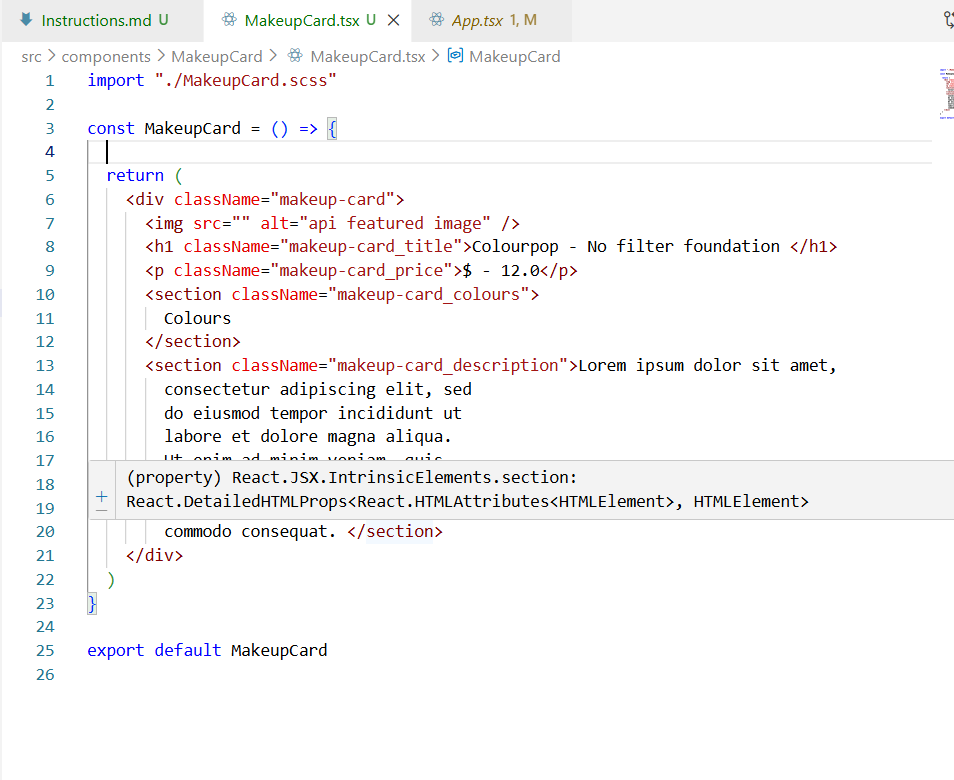
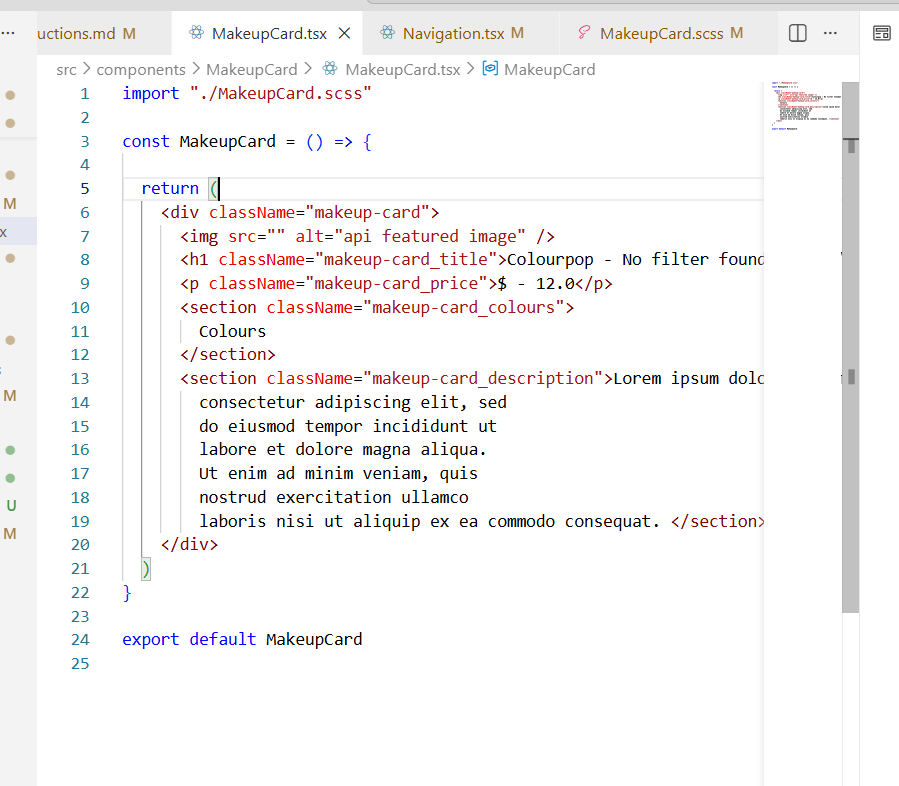
Mapped over data and for each makeup item made a card

Changed region(s): [[0.0, 0.0, 1.0, 0.8923], [0.8409, 0.0923, 1.0, 0.8], [0.0, 0.2154, 0.0623, 0.3385]]

diff --git a/src/App.tsx b/src/App.tsx
@@ -1,25 +1,33 @@
-
 import './App.css'
+
 import Aside from './container/Aside/Aside'
 import Dashboard from './container/Dashboard/Dashboard'
 import Navigation from './container/Navigation/Navigation'
+
 import { useEffect, useState } from 'react'
 
 const App = () => {
   
+  //fetch makeup data from makeup api
   const data = "http://makeup-api.herokuapp.com/api/v1/products.json?product_type=foundation"
+
+  //useState to store makeup data
+  const [makeupData, setMakeupData] = useState<object[]>([]);
+
+  //retrieve makeup data from api
   const getMakeup = async () => {
     const response = await fetch(data)
     const makeupData = await response.json()
-    const resultFiltered = Object.values(makeupData).filter((obj: any) => obj.name.includes("Foundation"));
-    console.log(resultFiltered)
+    const filteredMakeup = Object.values(makeupData).filter((makeupProduct: any) => makeupProduct.name.includes("Foundation")) as object[];
+    console.log(filteredMakeup)
+    setMakeupData(filteredMakeup)
   }
-  getMakeup() 
 
+  //useEffect 
   useEffect(() => {
     getMakeup()
   }, [])
-  
+
   return (
     <>
       <section> 
@@ -27,7 +35,7 @@ const App = () => {
 
         <div className="main">
           <Aside />
-          <Dashboard />
+          <Dashboard makeupData={makeupData} />
         </div>
 
       </section>

diff --git a/src/components/MakeupCard/MakeupCard.tsx b/src/components/MakeupCard/MakeupCard.tsx
@@ -1,22 +1,26 @@
 import "./MakeupCard.scss"
 
-const MakeupCard = () => {
+type MakeupCardProps = {
+  makeupData?: object[];
+  name: string;
+  key: number;
+  description: string;
+  price: string;
+  image_link: string;
+  currency: string;
+};
+
+const MakeupCard = ({ name, description, price, image_link, currency }: MakeupCardProps) => {
 
   return (
     <div className="makeup-card">
-      <img src="" alt="api featured image" />
-      <h1 className="makeup-card_title">Colourpop - No filter foundation </h1>
-      <p className="makeup-card_price">$ - 12.0</p>
+      <img className="makeup-card_image" src={image_link} alt="api featured image" />
+      <h1 className="makeup-card_title">{name}</h1>
+      <p className="makeup-card_price">{currency}{price}</p>
       <section className="makeup-card_colours">
         Colours
       </section>
-      <section className="makeup-card_description">Lorem ipsum dolor sit amet, 
-        consectetur adipiscing elit, sed 
-        do eiusmod tempor incididunt ut 
-        labore et dolore magna aliqua. 
-        Ut enim ad minim veniam, quis 
-        nostrud exercitation ullamco 
-        laboris nisi ut aliquip ex ea commodo consequat. </section>
+      <section className="makeup-card_description">{description}</section>
     </div>
   )
 }

diff --git a/src/components/MakeupCard/MakeupCard.scss b/src/components/MakeupCard/MakeupCard.scss
@@ -8,25 +8,30 @@
     height: 400px;
     font-family: Arial, Helvetica, sans-serif;
 
-    _title {
-        font-size: 1.5em;
-        margin-bottom: 8px;
-        color: #333;   
-    }
-    _description {
-        font-size: 1em;
-        color: #666;
-    }
-    _price {
+    .makeup-card_description {
+    font-size: 1em;
+    color: #666;
+}
+
+    .makeup-card_price {
         font-size: 1.2em;
         color: #000;
         font-weight: bold;
         margin-top: 12px;
     }
-    _image {
-        width: 100%;
-        height: auto;
+
+    .makeup-card_image {
+        max-width: 30px;
+        height: 30px;
         border-radius: 4px;
         margin-bottom: 12px;
     }
+    .makeup-card_title {
+        font-size: 1.5em;
+        margin-bottom: 8px;
+        color: green;
+    }
+
 }
+
+

diff --git a/src/components/MakeupCard/MakeupCard.css b/src/components/MakeupCard/MakeupCard.css
@@ -1,0 +1,31 @@
+.makeup-card {
+  border: 1px solid #ccc;
+  border-radius: 8px;
+  padding: 16px;
+  max-width: 300px;
+  box-shadow: 0 4px 6px rgba(0, 0, 0, 0.1);
+  background-color: beige;
+  height: 400px;
+  font-family: Arial, Helvetica, sans-serif;
+}
+.makeup-card .makeup-card_description {
+  font-size: 1em;
+  color: #666;
+}
+.makeup-card .makeup-card_price {
+  font-size: 1.2em;
+  color: #000;
+  font-weight: bold;
+  margin-top: 12px;
+}
+.makeup-card .makeup-card_image {
+  max-width: 30px;
+  height: 30px;
+  border-radius: 4px;
+  margin-bottom: 12px;
+}
+.makeup-card .makeup-card_title {
+  font-size: 1.5em;
+  margin-bottom: 8px;
+  color: green;
+}/*# sourceMappingURL=MakeupCard.css.map */

diff --git a/src/container/Dashboard/Dashboard.tsx b/src/container/Dashboard/Dashboard.tsx
@@ -1,11 +1,26 @@
 import MakeupCard from "../../components/MakeupCard/MakeupCard"
 import "./Dashboard.scss"
 
-const Dashboard = () => {
+type DashboardProps = {
+ makeupData: any[];
+};
+
+
+const Dashboard = ({ makeupData }: DashboardProps) => {
   return (
+
     <section className="Dashboard">
-      Dashboard
-      <MakeupCard/>
+      {makeupData.map((makeupItem) => (
+        <MakeupCard 
+        key={makeupItem.id} 
+        name={makeupItem.name} 
+        description={makeupItem.description} 
+        price={makeupItem.price} 
+        image_link={makeupItem.image_link}
+        currency={makeupItem.price_sign}
+        />
+      ))}
+
     </section>
   )
 }

diff --git a/src/container/Navigation/Navigation.tsx b/src/container/Navigation/Navigation.tsx
@@ -2,11 +2,9 @@ import "./Navigation.scss"
 const Navigation = () => {
   return (
     <section className="Navigation">
-        <div>logo</div>
-        <button>eyes</button>
-        <button>lips</button>
-        <button>face</button>
-        <button>More information test</button>
+        <div>nyx</div>
+        <button>maybelline</button>
+        <button>elf</button>
     </section>
   )
 }

diff --git a/src/container/Dashboard/Dashboard.scss b/src/container/Dashboard/Dashboard.scss
@@ -1,4 +1,11 @@
 .Dashboard {
-    background-color: aqua;
+    margin: 0;
+    background-color: white;
+    display: flex;
     width: 75vw;
+    height: auto;
+    flex-wrap: wrap;
+    align-items: center;
+    justify-content: center;
+    padding: 0px;
 }

diff --git a/src/container/Dashboard/Dashboard.css b/src/container/Dashboard/Dashboard.css
@@ -1,0 +1,11 @@
+.Dashboard {
+  margin: 0;
+  background-color: white;
+  display: flex;
+  width: 75vw;
+  height: auto;
+  flex-wrap: wrap;
+  align-items: center;
+  justify-content: center;
+  padding: 0px;
+}/*# sourceMappingURL=Dashboard.css.map */

diff --git a/src/container/Aside/Aside.css b/src/container/Aside/Aside.css
@@ -1,0 +1,4 @@
+.Aside {
+  background-color: lightgray;
+  width: 25vw;
+}/*# sourceMappingURL=Aside.css.map */

diff --git a/src/container/Navigation/Navigation.css b/src/container/Navigation/Navigation.css
@@ -1,0 +1,3 @@
+.Navigation {
+  background-color: lightpink;
+}/*# sourceMappingURL=Navigation.css.map */

diff --git a/src/instructions/Instructions.md b/src/instructions/Instructions.md
@@ -1,20 +1,21 @@
-Instructions for downloading
+# Instructions for React App
 
-npm create vite@latest
+## This will cover
+* [Setting up](#setting-up)
+* [Creating the card](#creating-the-card)
+* [Styling the card](#styling-the-card)
+* [UseState and useEffect](#usestate-and-useeffect)
 
-choose react 
 
-typescript 
-
-cd my-project
-
-npm install
-
-npm run dev
-
-ctrl c or cmd c to clear terminal
-
-Install the ES7+ React/Redux/GraphQL/React-Native snippets extension in VS Code.
+## Setting up
+    npm create vite@latest
+    choose react 
+    typescript 
+    cd my-project
+    npm install
+    npm run dev
+    ctrl c or cmd c to clear terminal
+    Install the ES7+ React/Redux/GraphQL/React-Native snippets extension in VS Code.
 
 in make containers and components folder
 
@@ -22,8 +23,38 @@ In Navigation.tsx do rafce
 
 (write how to add to git)
 
-then create card first
+## Creating the card
+
+Then create makeupCard first
 
 ![alt text](/src/instructions/images/image-1.png)
+
+## Styling the card
+
+Style the makeup card to your liking
+
+![alt text](/src/instructions/images/image-2.png)
+
+## UseState and useEffect
+Add the useEffect function and the useState hook to get and set the makeupdata. 
+
+![alt text](/src/instructions/images/image-3.png)
+
+Pass the makeup data as a prop to the dashboard
+
+![alt text](/src/instructions/images/image-4.png)
+
+To get rid of the intrinsic error issue inside dashboard add type Dashboardprops...
+and use makeupdta.map so that for evry makeup product ther is a makeup card
+retrieve values for each makeup item
+
+![alt text](/src/instructions/images/image-5.png)
+
+Lots of foundations should appear
+![alt text](/src/instructions/images/image-6.png)
+
+
+
+
 
 
